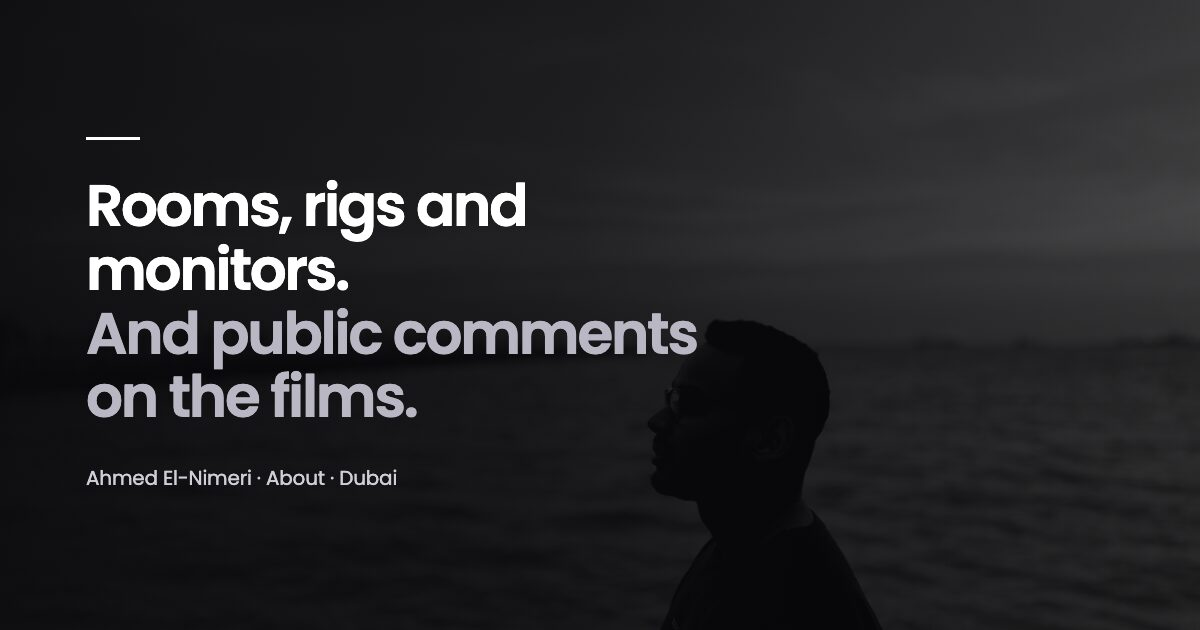
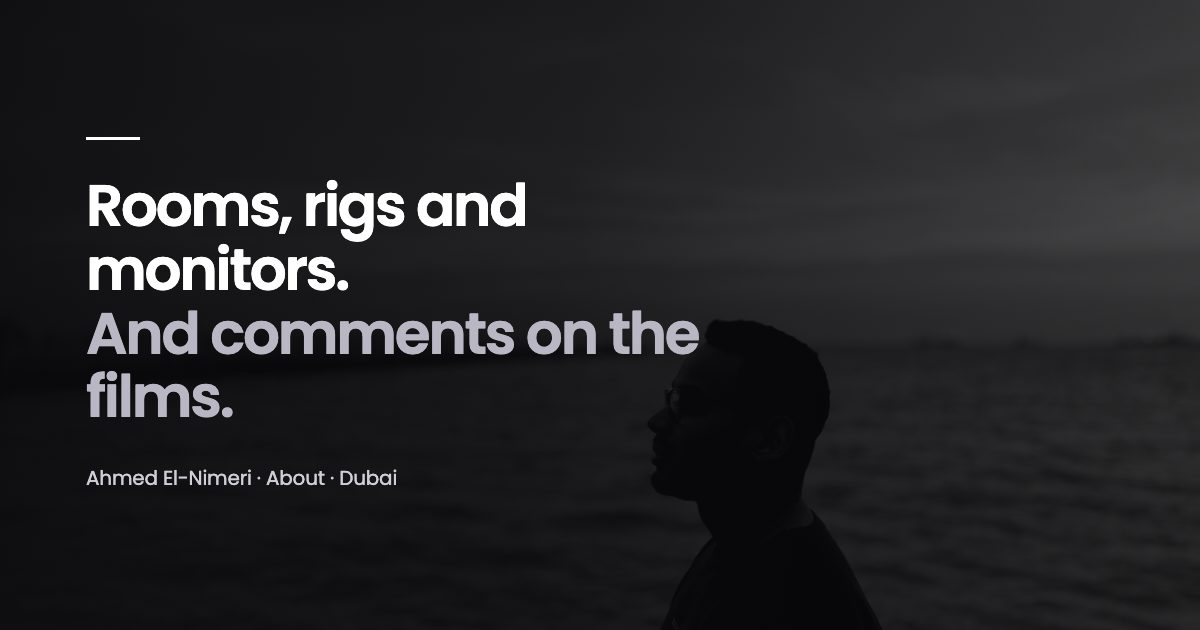
About: the comments are not all public (A10, A02, A03, O04, L05)
The section opened "Public comments, unedited, from Facebook, X, Instagram
and TikTok", but the two quotes that lead it (Lesha Mansukhani, COO, Nas
Company; Jonnie, CMO, deBridge) reached Ahmed privately
(assets/reception.json about._published). The meta description, the
og:description, the About share card and llms.txt repeated "public comments
on the films".

- bin-build-about-said.py: a quote with no "where" was sent to him, not
  posted; the intro counts them from reception.json: "Comments, unedited:
  public ones from Facebook, X, Instagram and TikTok, and two sent to me
  directly. Comments written in Arabic are shown in translation." (with none,
  it reads "Public comments, unedited, from …" as before).
- about.html meta description and og:description, bin-build-og.py (the About
  card) and bin-build-llms.py: "comments on the films", without "public".
- assets/og-about.jpg re-rendered from bin-build-og.py at 1200x630 through
  the local server (the same pipeline re-renders og-cv.jpg at 51 dB PSNR
  against the committed one).

Changed region(s): [[0.0617, 0.4825, 0.5858, 0.6635]]

diff --git a/about.html b/about.html
@@ -4,7 +4,7 @@
 <meta charset="utf-8">
 <meta name="viewport" content="width=device-width, initial-scale=1">
 <title>About — Ahmed El-Nimeri, Creative Director &amp; Editor</title>
-<meta name="description" content="Ahmed El-Nimeri, creative director and video producer based in Dubai: behind the scenes on his shoots, and public comments on the films. The full CV is at alnimeri.com/cv.">
+<meta name="description" content="Ahmed El-Nimeri, creative director and video producer based in Dubai: behind the scenes on his shoots, and comments on the films. The full CV is at alnimeri.com/cv.">
 <link rel="icon" href="/favicon.ico" sizes="any">
 <link rel="icon" type="image/png" sizes="48x48" href="/assets/favicon-48.png">
 <link rel="icon" type="image/png" sizes="96x96" href="/assets/favicon-96.png">
@@ -17,7 +17,7 @@
 <meta property="og:type" content="profile">
 <meta property="og:url" content="https://alnimeri.com/about">
 <meta property="og:title" content="About — Ahmed El-Nimeri">
-<meta property="og:description" content="Photographs from the shoots, and public comments on the films.">
+<meta property="og:description" content="Photographs from the shoots, and comments on the films.">
 <meta property="og:image" content="https://alnimeri.com/assets/og-about.jpg">
 <meta property="og:image:width" content="1200">
 <meta property="og:image:height" content="630">
@@ -422,7 +422,7 @@
     <div class="slate">
       <h2 class="slate__title">Comments</h2>
     </div>
-    <p class="reception__sub">Public comments, unedited, from Facebook, X, Instagram and TikTok.
+    <p class="reception__sub">Comments, unedited: public ones from Facebook, X, Instagram and TikTok, and two sent to me directly.
       Comments written in Arabic are shown in translation.</p>
     <div class="says" aria-label="Comments">
       <div class="says__row"><div class="says__track"><span class="say"><span class="say__t">this is art</span><span class="say__u">Superteam</span></span><span class="say"><span class="say__t">Nimeri, you are a master. An artist.</span><span class="say__u">Sarrah A. Abdallah</span></span><span class="say"><span class="say__t">Honestly — creativity overload.</span><span class="say__u">Ayman Moutaman</span></span><span class="say"><span class="say__t">Beautiful work, and precisely made.</span><span class="say__u">RuBa Shaddad</span></span><span class="say"><span class="say__t">The artist.</span><span class="say__u">Mohammed Sukki</span></span><span class="say"><span class="say__t">damn bro, crazy work</span><span class="say__u">simon (blkn/acc)</span></span><span class="say"><span class="say__t">super clean end result — congrats!</span><span class="say__u">jahris</span></span><span class="say"><span class="say__t">Absolutely well done cinematics there — love it</span><span class="say__u">__kirit0o0._.__</span></span><span class="say"><span class="say__t">Bravo, Nimeri.</span><span class="say__u">Ahmed Ali</span></span><span class="say"><span class="say__t">Ahmed El-Nimeri is an artist, and a lovely man.</span><span class="say__u">Moasab Awad Ebraheem Fadul</span></span><span class="say"><span class="say__t">Clean work, well put together</span><span class="say__u">ozzy.ca</span></span><span class="say"><span class="say__t">Amazing series — too calm, wallah</span><span class="say__u">ussyshotit</span></span><span class="say"><span class="say__t">The cinematography is flawless.</span><span class="say__u">mh_az_0</span></span><span class="say"><span class="say__t">I swear, beyond rating.</span><span class="say__u">taha_slah_249</span></span><span class="say"><span class="say__t">Man, you are an artist.</span><span class="say__u">m7mdgasim</span></span><span class="say"><span class="say__t">An amount of feeling that is not normal. Artist.</span><span class="say__u">abubaker.alhashmi.249</span></span><span class="say"><span class="say__t">The images are a masterpiece.</span><span class="say__u">xpxp_8</span></span><span class="say"><span class="say__t">The shooting is truly artistic.</span><span class="say__u">lii_ar09</span></span><span class="say"><span class="say__t">An artist. The most artist thing there is.</span><span class="say__u">mazin_7atim</span></span><span class="say"><span class="say__t">MashAllah Ahmed, so proud of you</span><span class="say__u">zuzumagzoub</span></span><span class="say"><span class="say__t">Incredible</span><span class="say__u">arwwwa_has</span></span><span class="say"><span class="say__t">You are world-class.</span><span class="say__u">san_dosani</span></span><span class="say"><span class="say__t">The art of choosing the music.</span><span class="say__u">ella_ta11</span></span><span class="say"><span class="say__t">First time to see it this way. Wow — creativity.</span><span class="say__u">Loo&#x27;s Loves</span></span><span class="say"><span class="say__t">The cinematography is perfect.</span><span class="say__u">shodyy ka</span></span><span class="say"><span class="say__t">An artist. Very much an artist.</span><span class="say__u"><span lang="ar" dir="auto">عــامِر</span></span></span><span class="say"><span class="say__t">I&#x27;m obsessed</span><span class="say__u">Talk About Sudan</span></span><span class="say"><span class="say__t">Creative — God bless.</span><span class="say__u">Othman yousof</span></span><span class="say"><span class="say__t">Ohhh, the cinematography.</span><span class="say__u"><span lang="ar">مُنى MUN</span></span></span><span class="say"><span class="say__t">Wow, beautiful pictures</span><span class="say__u">☆</span></span></div><div class="says__track" aria-hidden="true"><span class="say"><span class="say__t">this is art</span><span class="say__u">Superteam</span></span><span class="say"><span class="say__t">Nimeri, you are a master. An artist.</span><span class="say__u">Sarrah A. Abdallah</span></span><span class="say"><span class="say__t">Honestly — creativity overload.</span><span class="say__u">Ayman Moutaman</span></span><span class="say"><span class="say__t">Beautiful work, and precisely made.</span><span class="say__u">RuBa Shaddad</span></span><span class="say"><span class="say__t">The artist.</span><span class="say__u">Mohammed Sukki</span></span><span class="say"><span class="say__t">damn bro, crazy work</span><span class="say__u">simon (blkn/acc)</span></span><span class="say"><span class="say__t">super clean end result — congrats!</span><span class="say__u">jahris</span></span><span class="say"><span class="say__t">Absolutely well done cinematics there — love it</span><span class="say__u">__kirit0o0._.__</span></span><span class="say"><span class="say__t">Bravo, Nimeri.</span><span class="say__u">Ahmed Ali</span></span><span class="say"><span class="say__t">Ahmed El-Nimeri is an artist, and a lovely man.</span><span class="say__u">Moasab Awad Ebraheem Fadul</span></span><span class="say"><span class="say__t">Clean work, well put together</span><span class="say__u">ozzy.ca</span></span><span class="say"><span class="say__t">Amazing series — too calm, wallah</span><span class="say__u">ussyshotit</span></span><span class="say"><span class="say__t">The cinematography is flawless.</span><span class="say__u">mh_az_0</span></span><span class="say"><span class="say__t">I swear, beyond rating.</span><span class="say__u">taha_slah_249</span></span><span class="say"><span class="say__t">Man, you are an artist.</span><span class="say__u">m7mdgasim</span></span><span class="say"><span class="say__t">An amount of feeling that is not normal. Artist.</span><span class="say__u">abubaker.alhashmi.249</span></span><span class="say"><span class="say__t">The images are a masterpiece.</span><span class="say__u">xpxp_8</span></span><span class="say"><span class="say__t">The shooting is truly artistic.</span><span class="say__u">lii_ar09</span></span><span class="say"><span class="say__t">An artist. The most artist thing there is.</span><span class="say__u">mazin_7atim</span></span><span class="say"><span class="say__t">MashAllah Ahmed, so proud of you</span><span class="say__u">zuzumagzoub</span></span><span class="say"><span class="say__t">Incredible</span><span class="say__u">arwwwa_has</span></span><span class="say"><span class="say__t">You are world-class.</span><span class="say__u">san_dosani</span></span><span class="say"><span class="say__t">The art of choosing the music.</span><span class="say__u">ella_ta11</span></span><span class="say"><span class="say__t">First time to see it this way. Wow — creativity.</span><span class="say__u">Loo&#x27;s Loves</span></span><span class="say"><span class="say__t">The cinematography is perfect.</span><span class="say__u">shodyy ka</span></span><span class="say"><span class="say__t">An artist. Very much an artist.</span><span class="say__u"><span lang="ar" dir="auto">عــامِر</span></span></span><span class="say"><span class="say__t">I&#x27;m obsessed</span><span class="say__u">Talk About Sudan</span></span><span class="say"><span class="say__t">Creative — God bless.</span><span class="say__u">Othman yousof</span></span><span class="say"><span class="say__t">Ohhh, the cinematography.</span><span class="say__u"><span lang="ar">مُنى MUN</span></span></span><span class="say"><span class="say__t">Wow, beautiful pictures</span><span class="say__u">☆</span></span></div></div>

diff --git a/bin-build-about-said.py b/bin-build-about-said.py
@@ -97,6 +97,18 @@ for q in quotes:
 # in the order they first appear in the file
 WHERE = ', '.join(wheres[:-1]) + ' and ' + wheres[-1] if len(wheres) > 1 else ''.join(wheres)
 
+# A quote with no "where" was not posted anywhere: it reached Ahmed directly
+# (reception.json about._published: the two named executives, published as
+# they are, the channel label off at his request). The intro does not call
+# those public.
+direct = [q for q in quotes if not q.get('where')]
+_N = ['no', 'one', 'two', 'three', 'four', 'five', 'six', 'seven', 'eight', 'nine', 'ten']
+if direct:
+    INTRO = (f'Comments, unedited: public ones from {WHERE}, and '
+             f'{_N[len(direct)] if len(direct) < len(_N) else len(direct)} sent to me directly.')
+else:
+    INTRO = f'Public comments, unedited, from {WHERE}.'
+
 # The named voices with a title at a real company lead, in a row of their own.
 leads = (f'<div class="said-leads">{"".join(card(q, n) for n, q in enumerate(feature))}</div>'
          if feature else '')
@@ -106,7 +118,7 @@ block = f'''{START}
     <div class="slate">
       <h2 class="slate__title">Comments</h2>
     </div>
-    <p class="reception__sub">Public comments, unedited, from {WHERE}.
+    <p class="reception__sub">{INTRO}
       Comments written in Arabic are shown in translation.</p>
     <div class="says" aria-label="Comments">
       {strip(a, '')}

diff --git a/bin-build-og.py b/bin-build-og.py
@@ -49,7 +49,7 @@ CARDS = [
     # the same rule: a new count is a new file name
     (f'og-solana-{SOL_N}', '/assets/posters/solana-in-2025.jpg', f'{WORDS.get(SOL_N, SOL_N)} Solana videos.',
      'Each linked to its post on X.', 'Ahmed El-Nimeri &middot; Every Solana video I edited'),
-    ('og-about', '/assets/portrait/beach-1280.jpg', 'Rooms, rigs and monitors.', 'And public comments on the films.',
+    ('og-about', '/assets/portrait/beach-1280.jpg', 'Rooms, rigs and monitors.', 'And comments on the films.',
      'Ahmed El-Nimeri &middot; About &middot; Dubai'),
     ('og-cv', '/assets/onset/2020-monitor.jpg', 'Eleven years of film.', 'Sudan and the Gulf.',
      'Ahmed El-Nimeri &middot; Experience &amp; CV &middot; Dubai'),

diff --git a/bin-build-llms.py b/bin-build-llms.py
@@ -123,7 +123,7 @@ documentary and institutional films; creative direction and post-production.
 - Every Solana video he edited, with views (from the team's tracker): https://alnimeri.com/work/solana
 - Kinds of work: https://alnimeri.com/#services
 - CV, full credits, published photographs and experience: https://alnimeri.com/cv
-- About, behind the scenes and public comments on the films: https://alnimeri.com/about
+- About, behind the scenes and comments on the films: https://alnimeri.com/about
 - Contact: ahmed@alnimeri.com
 
 ## Films
